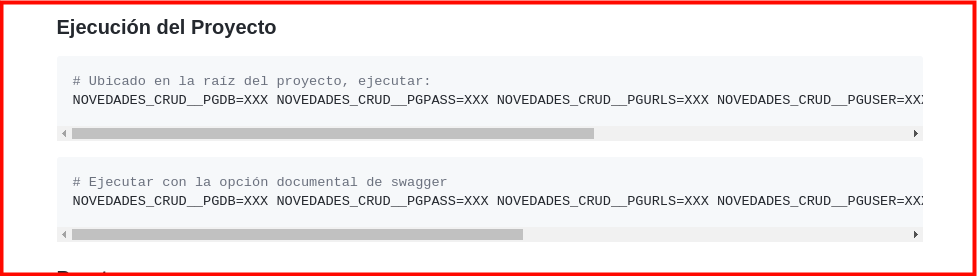
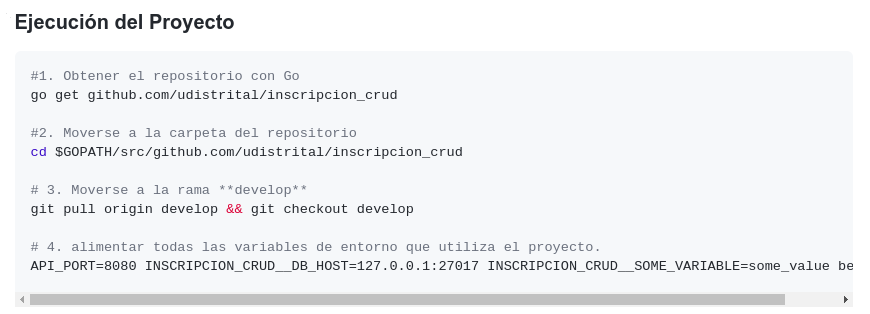
docs:ajustes documentacion repositorios institucionales

Changed region(s): [[0.0, 0.0, 1.0, 1.0]]

diff --git a/repositorios_institucionales/contenido_readme.md b/repositorios_institucionales/contenido_readme.md
@@ -7,10 +7,13 @@ En esta sección se establece los contenidos mínimos en el README para la descr
 │   └── Descripción de Repositorio
 ├── Especificaciones Técnicas
 │   ├── Tecnologías Implementadas y Versiones
-│   ├── Instalación
 │   ├── Variables de Entorno
 │   ├── Ejecución del Proyecto
-│   └── Modelo de Datos
+|   │   ├── Ejecución Docker
+|   │   ├── Ejecución docker-compose
+│   ├── Ejecución Pruebas
+└── Estado CI
+└── Modelo de Datos
 └── Licencia
 ```
 
@@ -23,7 +26,6 @@ Se debe especificar el propósito o la funcionalidad del repositorios en la desc
 ![Crear BD](/repositorios_institucionales/img/descri_repo.png)
 
 
-
 ## Especificaciones Técnicas
 Se debe documentar los aspecto técnicos del componente de software como: *Tecnologías Implementadas y Versiones*, *Instalación*, *Variables de Entorno*, *Ejecución del Proyecto*, *Modelo de Datos*, pero estas no son las únicas; puedes agregar secciones para la ejecución del docker o puertos y endpoint para mayor descripción.
 La idea principal es brindar una introducción para los desarrolladores, devops y equipos de infraestructuras acerca del componente de software que alberga dicho repositorio.
@@ -32,18 +34,34 @@ La idea principal es brindar una introducción para los desarrolladores, devops 
 
 
 ### Tecnologías Implementadas y Versiones
+Se crean links o enlaces del fabricante oficial acerca las tecnologías implementadas y en ocasiones se proporciona su versión específica
+
 ![REAME  Tecnologias implementadas y Versiones](/repositorios_institucionales/img/tec_implementadas_y_versiones.png)
 
-### Instalación
-![REAME Instalación](/repositorios_institucionales/img/instalacion.png)
-
 ### Variables de Entorno
+Define las variables implementadas y una breve descripción del valor que almacenan
 ![REAME Variables de Entorno](/repositorios_institucionales/img/variables_entorno.png)
 
 ### Ejecución del Proyecto
+Define la serie de pasos y comandos para ejecutar el repositorio en ambiente local.
 ![REAME Ejecución del Proyecto](/repositorios_institucionales/img/ejecución_proyecto.png)
 
-### Modelo de Datos
+### Ejecución Docker
+Define la serie de pasos y comandos para ejecutar el repositorio en ambiente dockerizado.
+![REAME Ejecución Docker](/repositorios_institucionales/img/docker1.png)
+
+
+### Ejecución docker-compose
+Define la serie de pasos y comandos para ejecutar el repositorio en ambiente dockerizado.
+![REAME Ejecución docker-compose](/repositorios_institucionales/img/docker2.png)
+
+
+### Estado CI
+Son links que dirigen hacia los resultado del sistema de integración continua.
+![REAME Modelo de Datos](/repositorios_institucionales/img/estado_ci.png)
+
+## Modelo de Datos
+Los modelos de datos, mockups o modelos de interfaces gráficas por ser imágenes tan extensas, **se establece** crear enlaces a las imágenes, para que no extiendan el contenido del readme.
 ![REAME Modelo de Datos](/repositorios_institucionales/img/modelo_datos.png)
 
 ## Licencia
